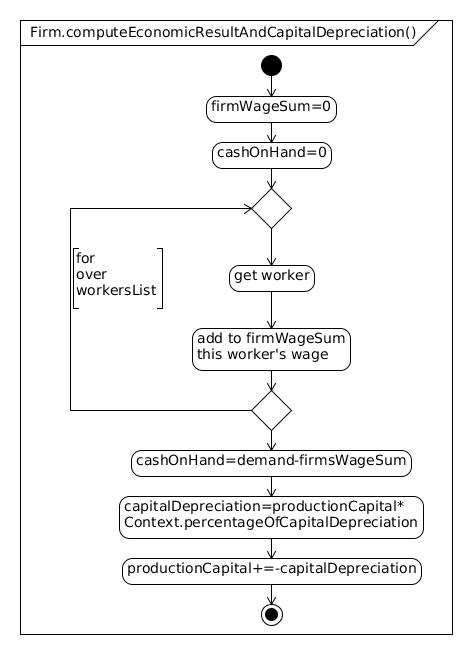
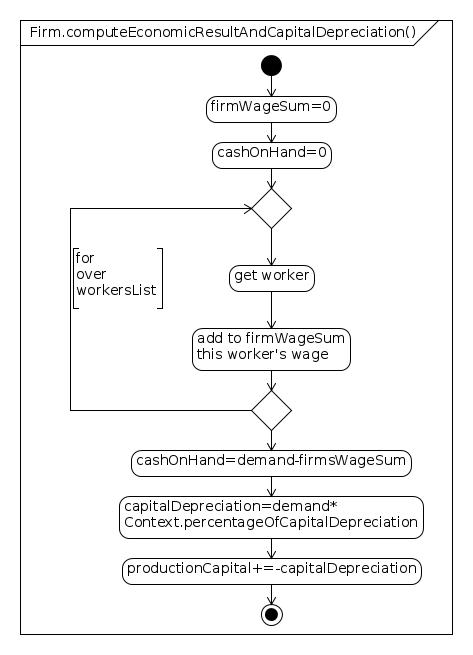
aggiunto mercato per il capitale produttivo inutilizzato

diff --git a/src/sfcabm/OfficeForStatistics.java b/src/sfcabm/OfficeForStatistics.java
@@ -27,7 +27,7 @@ public class OfficeForStatistics{
 	AggregateDataSource maximumAbsoluteRankDataSource,minimumAbsoluteRankDataSource;
 	public static ArrayList<Industry> industriesList = new ArrayList<Industry>();
 
-	double maximumAbsoluteRank,minimumAbsoluteRank,aggregateProduction,totalWeightedProduction,aggregateDemand,aggregateInvestments,aggregateLoans,aggregateDeposits,aggregateHouseholdDesiredChangeInCredit,aggregateHouseholdAllowedChangeInCredit;
+	double maximumAbsoluteRank,minimumAbsoluteRank,aggregateProduction,totalWeightedProduction,aggregateDemand,aggregateInvestments,aggregateInvestmentsBeforeExchangingExistingCapital,aggregateUnusedProductionCapital,aggregateUnusedProductionCapitalForSale,aggregateLoans,aggregateDeposits,aggregateHouseholdDesiredChangeInCredit,aggregateHouseholdAllowedChangeInCredit;
 	public IndexedIterable firmsList,consumersList,banksList;
 
 	Firm aFirm;
@@ -534,6 +534,7 @@ public void loadAgents(){
 			System.out.println("OFFICE FOR STATISTICS: COMPUTE AGGREGATE INVESTMENTS AND SET INDUSTRIES' INVESTMENTS");
 		}
 		aggregateInvestments=0;
+		aggregateUnusedProductionCapital=0;
 		//		statAction=statActionFactory.createActionForIterable(industriesList,"resetDemand",false);
 		//		statAction.execute();
 
@@ -549,10 +550,40 @@ public void loadAgents(){
 		for(int i=0;i<firmsList.size();i++){
 			aFirm=(Firm)firmsList.get(i);
 			double tmpInvestment=aFirm.getInvestment();
-			if(tmpInvestment>0){
+			if(tmpInvestment>=0){
 				aggregateInvestments+=tmpInvestment;
 			}
+			else{
+				aggregateUnusedProductionCapital+=-tmpInvestment;
+			}
 		}
+
+		aggregateInvestmentsBeforeExchangingExistingCapital=aggregateInvestments;
+
+		if(aggregateInvestments>0 && aggregateUnusedProductionCapital>0){
+			aggregateUnusedProductionCapitalForSale=aggregateUnusedProductionCapital*Context.percentageOfRealizedUnusedProductionCapital;
+
+			double shareOfUnusedCapitalSold;
+
+			if(aggregateUnusedProductionCapitalForSale>aggregateInvestments){
[1 lines of base64/hex data omitted]
+				aggregateInvestments=0;
+			}
+			else{
+				shareOfUnusedCapitalSold=1;
+				aggregateInvestments+=-aggregateUnusedProductionCapitalForSale;
+			}
+
+			for(int i=0;i<firmsList.size();i++){
+				aFirm=(Firm)firmsList.get(i);
+				double tmpInvestment=aFirm.getInvestment();
+				if(tmpInvestment<0){
+					aFirm.sellUnusedCapital(shareOfUnusedCapitalSold);
+				}
+			}
+		}
+
+
 
 		//		if(Context.verboseFlag){
 		//			System.out.println("OFFICE FOR STATISTICS: COMPUTE INVESTMENTS ");
@@ -567,7 +598,7 @@ public void loadAgents(){
 		}
 
 		if(Context.verboseFlag){
-			System.out.println("     Aggregate demand "+aggregateDemand+" aggregate production "+aggregateProduction+" aggregate Investments "+aggregateInvestments);
+			System.out.println("     Aggregate demand "+aggregateDemand+" aggregate production "+aggregateProduction+" aggregate investment before exchangin existing capital "+aggregateInvestmentsBeforeExchangingExistingCapital+" aggregate Investments "+aggregateInvestments+" unused capital "+aggregateUnusedProductionCapital+" unused capital for sale "+aggregateUnusedProductionCapitalForSale);
 		}
 	}
 

diff --git a/src/sfcabm/Firm.java b/src/sfcabm/Firm.java
@@ -457,7 +457,7 @@ System.out.println("      ----------------");
 		else{
 				System.out.println("     decreasing capital");
 			   firmInvestment=desiredProductionCapital-productionCapital;
-			   productionCapital=desiredProductionCapital;
+//			   productionCapital=desiredProductionCapital;
 			creditToAsk=-cashOnHand-financialResourcesInBankAccounts+unpaidAmountInBankAccounts;
 
 			if(creditToAsk>0){
@@ -659,7 +659,8 @@ System.out.println("      ----------------");
 		previousPeriodOrdersOfProductsForInvestmentPurpose=ordersOfProductsForInvestmentPurpose;
 		cashOnHand=demand+ordersOfProductsForInvestmentPurpose-firmWageSum;
 		cashOnHandWhenComputingEconomicResult=cashOnHand;
-		capitalDepreciation=productionCapital*Context.percentageOfCapitalDepreciation;
+		//		capitalDepreciation=productionCapital*Context.percentageOfCapitalDepreciation;
+		capitalDepreciation=demand*Context.percentageOfCapitalDepreciation;
 		if(Context.verboseFlag){
 			System.out.print("     firm "+identity+" demand "+(demand+ordersOfProductsForInvestmentPurpose)+" payed wages "+firmWageSum+" cashOnHand "+cashOnHand+" productionCapital "+productionCapital+" depreciation "+capitalDepreciation);
 		}
@@ -679,7 +680,7 @@ System.out.println("      ----------------");
 
 	public void payBackBankDebt(){
 
-	//reset unpaid amount of bank accounts
+		//reset unpaid amount of bank accounts
 		for(int i=0;i<bankAccountsList.size();i++){
 			aBankAccount=(BankAccount)bankAccountsList.get(i);
 			aBankAccount.setUnpaidAmount(0);
@@ -773,11 +774,11 @@ System.out.println("      ----------------");
 								aBankAccount.setAccount(amountOfThisBankAccount+resourcesAvailableToRefund);
 								aBankAccount.increaseUnpaidAmount(-aBankAccount.getAccount()+aBankAccount.getAllowedCredit());
 								resourcesAvailableToRefund+=-toPayBakToThisBankAccount;
-						       }
-						       else{
+							}
+							else{
 								aBankAccount.increaseUnpaidAmount(-aBankAccount.getAccount()+aBankAccount.getAllowedCredit());
 								resourcesAvailableToRefund+=-toPayBakToThisBankAccount;
-						       }
+							}
 						}
 					}
 				}
@@ -1030,7 +1031,13 @@ System.out.println("      ----------------");
 		catch(IOException e) {System.out.println("IOException");}
 
 	}
-
+	public void sellUnusedCapital(double shareOfUnusedCapitalSold){
+		productionCapital+=firmInvestment*shareOfUnusedCapitalSold;
+		worstBankAccount.setAccount(worstBankAccount.getAccount()-firmInvestment*shareOfUnusedCapitalSold*Context.percentageOfRealizedUnusedProductionCapital);
+		if(Context.verboseFlag){
+			System.out.println("     Firm "+identity+" sold capital "+(-firmInvestment*shareOfUnusedCapitalSold)+" realizing "+(-firmInvestment*shareOfUnusedCapitalSold*Context.percentageOfRealizedUnusedProductionCapital));
+		}
+	}
 
 
 	//reset the firm each time step 

diff --git a/documentation/manual.tex b/documentation/manual.tex
@@ -402,4 +402,38 @@ cashOnHand = 0 financialResourcesInBankAccounts = 0
 
 
 
+\section{Unused capital and investments}
+
+It can happen that a number of firms in the economy want to increase their production capital while other have an excess of it.
+
+In this model, there is a market for exchanging existing unused production capital.
+
+First of all, there is a parameter that transforms unused production capital into reusable production capital.
+This parameter $\in[0,1]$.
+
+The sequence of events in the adjustment of production capital is as follows
+\begin{itemize}
+	\item computation of aggregate investments and aggregate unused capital;
+	\item unused capital is transformed in reusable production capital;
+	\item reusable production capital is used to satisfy aggregate investments;
+	\item firms that sold unused capital reduce their available production capital and increase their worst bank account;
+	\item if aggregate investments are higher than reusable production capital, the difference increases the demanded in the goods market. 
+\end{itemize}
+
+The reuse of existing production capital is relevant for credit creation and aggregate demand.
+
+Let discuss the two extreme cases.
+
+If existing capital is not reusable (the parameter is 0), the increase of production capital increase lending or reduce deposits of the firm who made this increase. The balancesheet of the banking sector changes
+
+If existing capital is reusable (the parameter is 1), the balance sheet of the banking sector does not change provided the reusable production capital in the economy is enough.
+
+Consider two firms having both a debt of 100. One of them want to increase its production capital by 10, while the other one has 10 unit of unused capital. 
+
+If the second firm can sell the unused capital to the first one, the total amount of lending is unchanged (200) because the debt of the first firm increase to 110 while that of the second firm decrease to 90.
+In the other case bank lending increase to 210.
+
+However, in the second case the first firm buys new production goods and the aggregate demand is higher than in the first case. 
+
+
 \end{document}

diff --git a/src/sfcabm/Context.java b/src/sfcabm/Context.java
@@ -42,6 +42,7 @@ public class Context implements ContextBuilder<Object> {
 	public static int productionOfNewEnteringFirm=50;
 	public static double percentageOfDemandMissedBecauseOfGoodsMarketsInperfections=0.0;
 	public static double percentageOfCapitalDepreciation=0.004;
+	public static double percentageOfRealizedUnusedProductionCapital=0.9;
 	public static double laborMarketStateToSetWage=0.5;
 	public static double interestRateOnDeposits=0.001;
 	public static double interestRateOnLoans=0.004;
